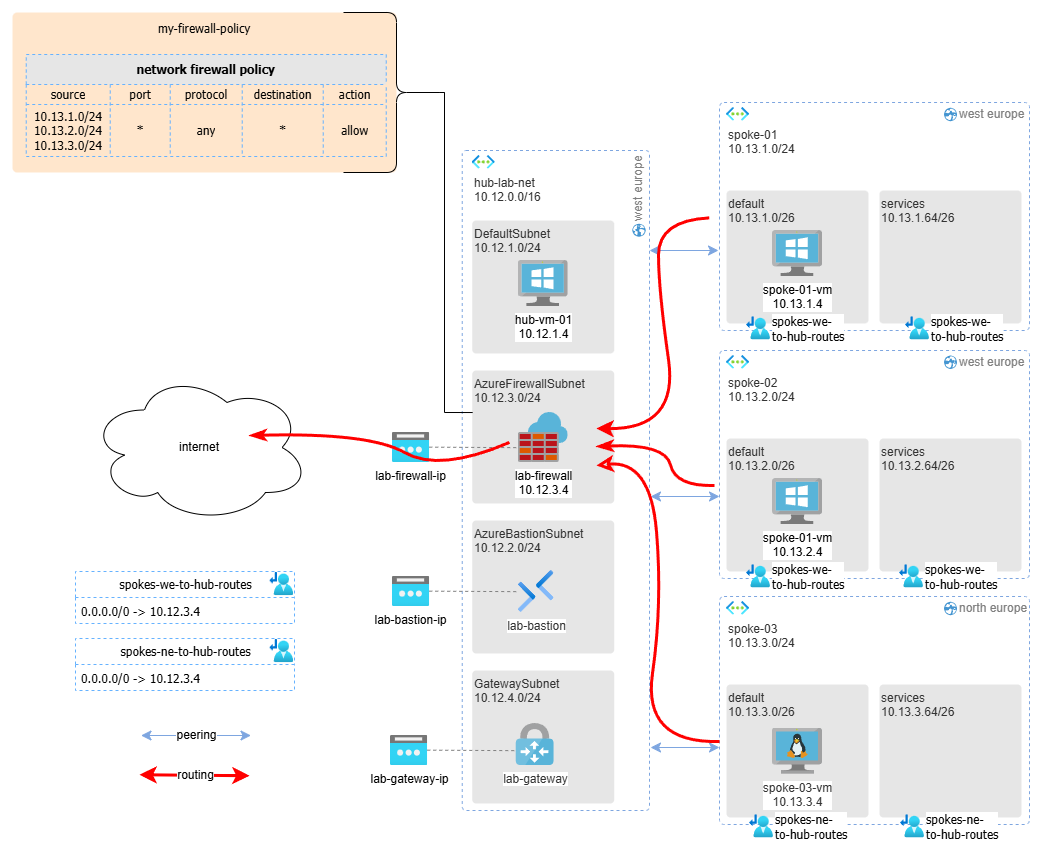
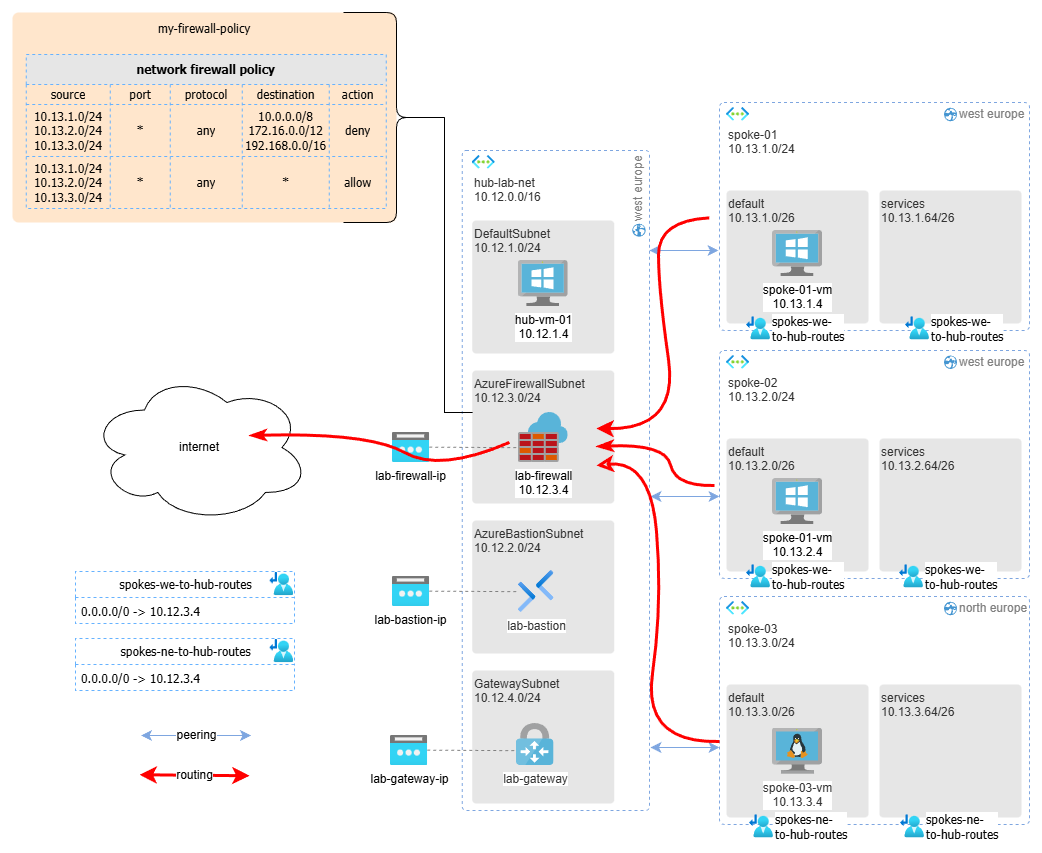
rfc1918

Changed region(s): [[0.0, 0.0914, 0.3992, 0.2743], [0.1536, 0.8839, 0.215, 0.9144]]

diff --git a/scenarios/outbound-traffic-to-internet-firewall.md b/scenarios/outbound-traffic-to-internet-firewall.md
@@ -76,7 +76,20 @@ Go to Azure Portal > Firewall Policies > Create
 * policy tier: premium
 * parent policy: none
 * Rules > Add a Rule Collection
-  * Name: `my-rule-collection`
+  * Name: `rfc1918-collection`
+  * rule collection type: Network
+  * priority: `1000`
+  * rule collection action: deny
+  * rule name: `block-intranet-traffic`
+  * source type: ip address
+  * source: `10.13.1.0/24,10.13.2.0/24,10.13.3.0/24`
+  * protocol: TCP + UDP
+  * destination ports: `*`
+  * destination type: ip address
+  * destination: `10.0.0.0/8,172.16.0.0/12,192.168.0.0/16`
+  * add
+* Rules > Add a Rule Collection
+  * Name: `internet-collection`
   * rule collection type: Network
   * priority: `10000`
   * rule collection action: allow
